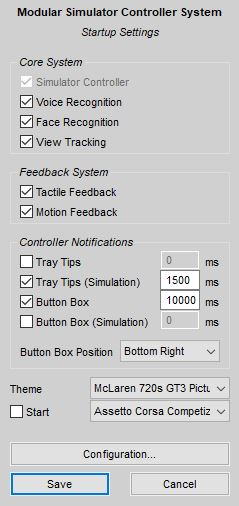
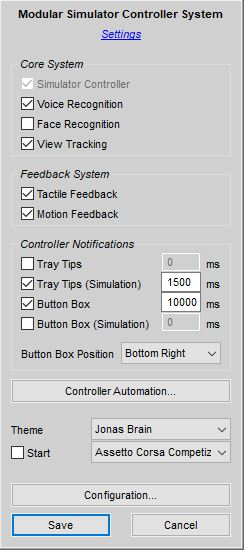
Configurable Mode Handling Part 5

Changed region(s): [[0.0, 0.0, 1.0, 1.0], [0.0586, 0.0, 0.9372, 0.0889]]

diff --git a/Docs/Releases.md b/Docs/Releases.md
@@ -1,3 +1,13 @@
+## 2.8.2-release upcoming...
+
+  1. Bugfixes, as always
+  2. Documentation updates, as always
+  3. The format of the VERSION file changed, much more information is now included.
+  4. Refactoring of the Simulator Plugins makes the implementation of a new simulator very simple now.
+  5. The shared memory reader applications for the different simulators now have there Windows Explorer icons.
+  6. The "Controller Plugin Labels" file is now available in different translations.
+  7. The active modes of the connected controllers (aka Button Boxes) can now be automatically activated depending on the current simulator and the active session.
+
 ## 2.8-release 04/09/21
 
   1. Bugfixes, as always
